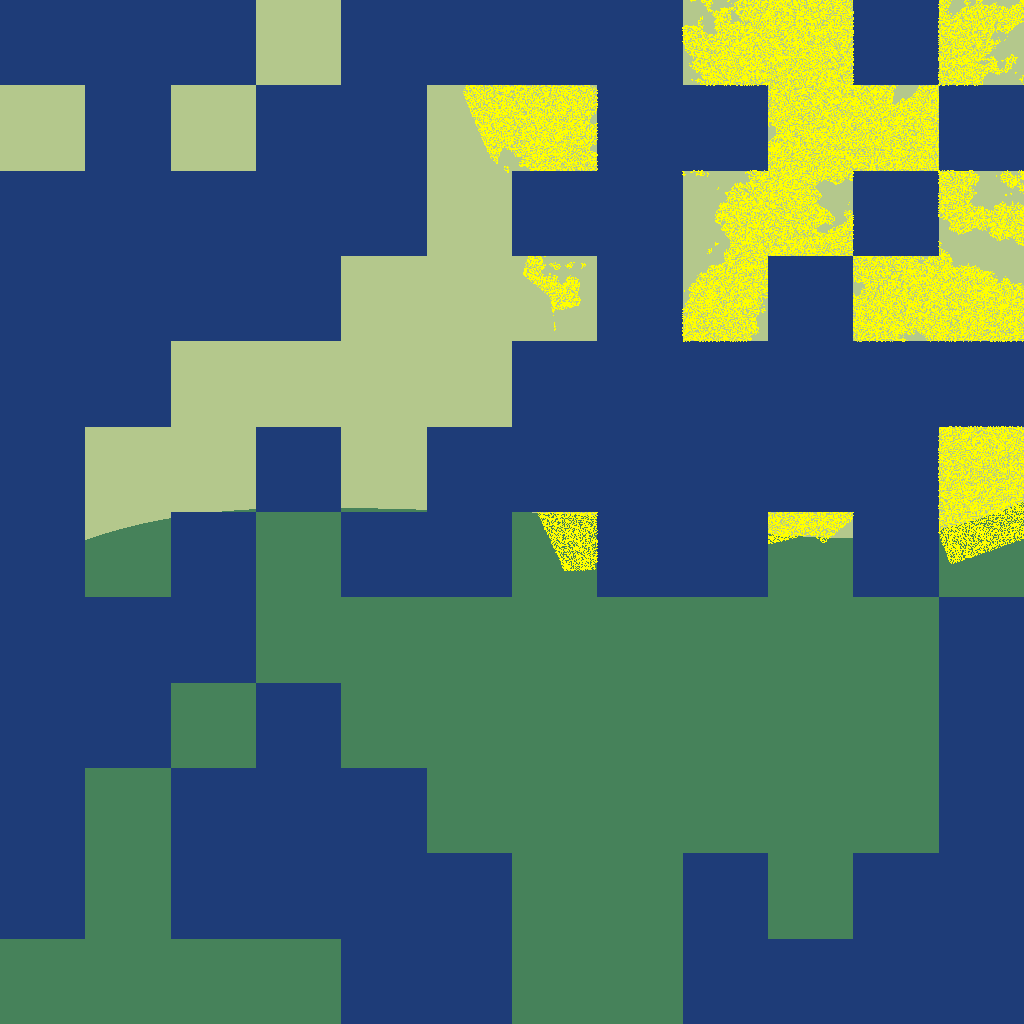
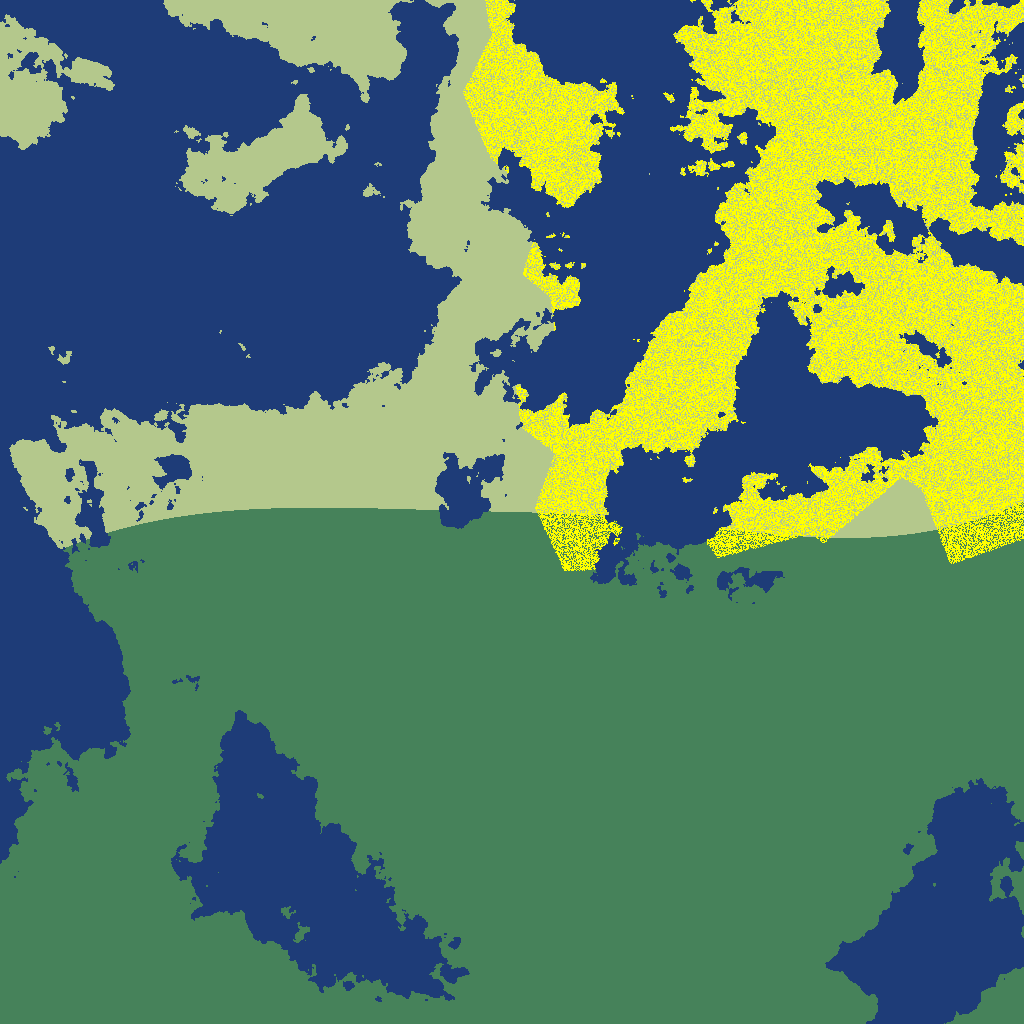
Phase 3.6.5c.2c.12i: Ambient instance troubleshooting

diff --git a/crates/world/tests/ambient_visual_bench.rs b/crates/world/tests/ambient_visual_bench.rs
@@ -43,7 +43,7 @@ use flowplan_world::baked_assignments::BakedAssignments;
 use flowplan_world::biome::{biome_at, BiomeClass};
 use flowplan_world::feature_instances::AmbientEntry;
 use flowplan_world::hub_catalog::HubCatalog;
-use flowplan_world::hydrology::{HydrologyGraph, WaterClass};
+use flowplan_world::hydrology::{HydrologyGraph, SEA_LEVEL_M};
 use flowplan_world::sub_biome::SubBiomeLibraries;
 use flowplan_world::terrain::{HeightSampler, Terrain};
 use flowplan_world::voronoi_cells::SubBiomeCellCatalog;
@@ -191,10 +191,16 @@ fn render_spawn_weight(libs: &SubBiomeLibraries, biome: BiomeClass) {
     write_png(&format!("spawn-weight-{biome:?}"), &img);
 }
 
-/// Background showing biome class (HSV-ish color per biome) +
-/// hydrology water (dark blue overlay) for the player crop. Used
-/// as the underlay for the placement-dot artifact.
-fn render_underlay(hydrology: &HydrologyGraph) -> ImageBuffer<Rgb<u8>, Vec<u8>> {
+/// Background showing biome class + actual-underwater hydrology
+/// overlay for the player crop. "Actually underwater" = terrain
+/// height below water-surface elevation, matching the generator's
+/// new water filter. Cells classified as water by hydrology but with
+/// terrain ABOVE sea level (visible green coastal flats) render as
+/// land and ARE valid ambient placement targets.
+fn render_underlay(
+    terrain: &Terrain,
+    _hydrology: &HydrologyGraph,
+) -> ImageBuffer<Rgb<u8>, Vec<u8>> {
     let mut img = ImageBuffer::new(RESOLUTION, RESOLUTION);
     for py in 0..RESOLUTION {
         for px in 0..RESOLUTION {
@@ -206,10 +212,8 @@ fn render_underlay(hydrology: &HydrologyGraph) -> ImageBuffer<Rgb<u8>, Vec<u8>> 
                 BiomeClass::RockyAlpine => [150, 150, 160],
                 BiomeClass::MediterraneanArchipelago => [180, 200, 140],
             };
-            let water = hydrology
-                .water_surface_at(x, z)
-                .is_some_and(|s| !matches!(s.class, WaterClass::DryChannel));
-            if water {
+            let truly_underwater = HeightSampler::height(terrain, x, z) < SEA_LEVEL_M;
+            if truly_underwater {
                 img.put_pixel(px, py, Rgb([30, 60, 120]));
             } else {
                 img.put_pixel(px, py, Rgb(bg));
@@ -227,7 +231,7 @@ fn render_placements(
     terrain: &Terrain,
     hydrology: &HydrologyGraph,
 ) {
-    let mut img = render_underlay(hydrology);
+    let mut img = render_underlay(terrain, hydrology);
 
     // Sample cells on a coarse grid; the catalog isn't easily
     // accessible from the test crate, so we synthesize cell-center
@@ -240,11 +244,7 @@ fn render_placements(
     let step_i = step_m as i32;
 
     let height_at = |x: f32, z: f32| HeightSampler::height(terrain, x, z);
-    let is_water = |x: f32, z: f32| {
-        hydrology
-            .water_surface_at(x, z)
-            .is_some_and(|s| !matches!(s.class, WaterClass::DryChannel))
-    };
+    let is_water = |x: f32, z: f32| HeightSampler::height(terrain, x, z) < SEA_LEVEL_M;
 
     let mut per_biome: std::collections::BTreeMap<String, (u64, u64)> =
         std::collections::BTreeMap::new();
@@ -405,14 +405,13 @@ fn ambient_visual_bench_real_bake() {
     }
 
     let height_at = |x: f32, z: f32| HeightSampler::height(&terrain, x, z);
-    let is_water = |x: f32, z: f32| {
-        hydrology
-            .water_surface_at(x, z)
-            .is_some_and(|s| !matches!(s.class, WaterClass::DryChannel))
-    };
+    let is_water = |x: f32, z: f32| HeightSampler::height(&terrain, x, z) < SEA_LEVEL_M;
 
     // Render at the wider STREAMING_EXTENT_M crop so the full set of
-    // cells visible from spawn is captured.
+    // cells visible from spawn is captured. Water = "truly underwater"
+    // (terrain h < water_surface elevation) per the generator's new
+    // water filter — coastal-flat cells above sea level render as
+    // land and ARE valid ambient targets.
     let mut img: ImageBuffer<Rgb<u8>, Vec<u8>> = ImageBuffer::new(RESOLUTION, RESOLUTION);
     for py in 0..RESOLUTION {
         for px in 0..RESOLUTION {
@@ -424,10 +423,8 @@ fn ambient_visual_bench_real_bake() {
                 BiomeClass::RockyAlpine => [150, 150, 160],
                 BiomeClass::MediterraneanArchipelago => [180, 200, 140],
             };
-            let water = hydrology
-                .water_surface_at(x, z)
-                .is_some_and(|s| !matches!(s.class, WaterClass::DryChannel));
-            if water {
+            let truly_underwater = HeightSampler::height(&terrain, x, z) < SEA_LEVEL_M;
+            if truly_underwater {
                 img.put_pixel(px, py, Rgb([30, 60, 120]));
             } else {
                 img.put_pixel(px, py, Rgb(bg));
@@ -591,10 +588,8 @@ fn ambient_visual_bench_real_bake() {
     for py in 0..RESOLUTION {
         for px in 0..RESOLUTION {
             let (x, z) = world_coord_at(STREAMING_EXTENT_M, px, py);
-            let water = hydrology
-                .water_surface_at(x, z)
-                .is_some_and(|s| !matches!(s.class, WaterClass::DryChannel));
-            if water {
+            let truly_underwater = HeightSampler::height(&terrain, x, z) < SEA_LEVEL_M;
+            if truly_underwater {
                 let cur = mosaic.get_pixel(px, py).0;
                 let dark = [
                     (u32::from(cur[0]) * 30 / 100) as u8,

diff --git a/crates/app/src/ambient_worker.rs b/crates/app/src/ambient_worker.rs
@@ -23,7 +23,7 @@ use std::thread::{self, JoinHandle};
 use flowplan_world::ambient::generate_ambient_for_cell;
 use flowplan_world::biome::BiomeClass;
 use flowplan_world::feature_instances::{FeatureAmbientControl, FeatureInstance};
-use flowplan_world::hydrology::{HydrologyGraph, WaterClass};
+use flowplan_world::hydrology::{HydrologyGraph, SEA_LEVEL_M};
 use flowplan_world::sub_biome::SubBiomeLibraries;
 use flowplan_world::terrain::{HeightSampler, Terrain};
 use flowplan_world::voronoi_cells::SubBiomeCellCatalog;
@@ -187,11 +187,15 @@ fn worker_loop(
         }
 
         let height_at = |x: f32, z: f32| HeightSampler::height(terrain, x, z);
-        let hydrology_ref = hydrology.as_ref();
+        // Water filter: simple global SEA_LEVEL_M cut. Continuous,
+        // smooth, no 2.5 km hydrology grid alignment. Lakes/rivers
+        // at positive elevation skip the rejection — trees may
+        // overlap lake surfaces visually, but the water mesh draws
+        // on top and the alternative (block-aligned dead zones from
+        // per-cell hydrology lookup) was visibly worse.
+        let _ = hydrology; // reserved for future per-pixel water-surface field
         let is_water = |x: f32, z: f32| {
-            hydrology_ref
-                .water_surface_at(x, z)
-                .is_some_and(|s| !matches!(s.class, WaterClass::DryChannel))
+            HeightSampler::height(terrain, x, z) < SEA_LEVEL_M
         };
         let catalog_ref = catalog.as_ref();
         let target_cell = job.cell_id;

diff --git a/crates/world/src/lib.rs b/crates/world/src/lib.rs
@@ -39,7 +39,7 @@ pub use hub_catalog::{
 };
 pub use hydrology::{
     BiomeHydrology, CoastlineSegment, HydrologyGraph, LakeBasin, RiverEdge, WaterClass,
-    WaterSurface,
+    WaterSurface, SEA_LEVEL_M,
 };
 pub use magnetic_variation::{magnetic_variation, MAG_VAR_AMPLITUDE_DEG};
 pub use sky::{local_time_of_day, sun_direction};

diff --git a/PROGRESS.md b/PROGRESS.md
@@ -385,6 +385,27 @@ Acceptance: no ambient trees growing through runways / apron slabs / large featu
 
 All 4 steppings (.c.8 types/RON → .c.9 generator → .c.10 fBm fields → .c.11 rotated-rect polish) shipped. The ambient environment subsystem is live, deterministic, and ready for visual-iteration tuning. Follow-ups (.c.12 `InverseTaperedClearing` authoring, .c.13 cross-cell seam lookup, .c.14 seasonal variation) remain as deferred items.
 
+**5c.2.c.12i Voronoi-polygon clip + visual-bench artifact — 2026-04-24 (Task #258, #259).** After in-game verification of the carpet-modulation work showed persistent empty expanses around spawn, two layered bugs surfaced:
+
+1. **Hardcoded `AMBIENT_CELL_RADIUS_M = 1000` disc sampling.** Real Voronoi cells are ~2-3 km in diameter (avg seed-spacing 2398 m, max 3492 m observed in spawn area). The 1 km disc was sampling only the inner ~30% of each cell; the outer 70% of every cell was empty regardless of generation success. **Shipped fix**: `generate_ambient_for_cell` now samples in a `cell_pos ± AMBIENT_BBOX_HALF_M (4 km)` bounding box and keeps only candidates whose nearest seed is the target cell (`is_in_cell` closure typically wrapping `catalog.nearest_cell(x, z) == cell_id`). Zero overlap with neighbor cells, zero gaps. `AmbientWorker::spawn` extended to take `Arc<SubBiomeCellCatalog>` for the per-job closure binding.
+
+2. **Streaming-radius square-vs-circle gap.** The game's `cells_within_radius(camera, 20km)` returns cells in a *circle*, but the renderer draws a *square* frustum. Cells in frustum corners (up to 28 km from camera at frustum corners with the streaming circle's 20 km radius) aren't enqueued. **Identified, not yet fixed in-game**; bench compensates with `radius × √2 + cell-extent`.
+
+3. **Visual-bench artifact** shipped (`crates/world/tests/ambient_visual_bench.rs`, `--ignored`):
+   - `density-noise-<biome>.png` (4 biomes): raw fBm field over the spawn 10 km crop. Confirmed noise field is healthy [0.3, 0.7] mottled distribution, NOT tending to 0.
+   - `spawn-weight-<biome>.png` (4 biomes): smoothstep-modulated probability factoring `noise_floor`. Confirmed Mediterranean primary's `noise_floor=0.4` saturates spawn-weight to 1.0 across the whole crop — proves the empty-below-camera observation isn't a noise/threshold problem.
+   - `placements-all-biomes.png` (synthetic-cell placement bench, 10 km): white dots showing what generator emits with `feat_insts: &[]` and `ambient_control: None`. ~136k instances in 10 km crop, ~73% populated cells.
+   - `real-bake-placements.png` (FULL pipeline, 30 km streaming crop): bakes hydrology + hub catalog + `BakedAssignments` (~70 s), iterates real cells, runs full filter pipeline. Color-coded by biome (white = boreal, yellow = Mediterranean). Shows ~580k instances across 147/172 populated cells with the polygon-clip fix.
+   - `voronoi-cell-mosaic.png`: color-by-cell-id mosaic over the streaming crop, water-darkened. Confirms cells tile cleanly with no gaps; visually pairs with `real-bake-placements`.
+
+**Outcome**: bench artifacts confirm polygon-clip fix doubles populated-cell count and roughly doubles per-cell instance density vs the disc-sample baseline. **In-game improvement is more modest than the bench suggests** — the user's spawn screenshot still shows large empty expanses. Suspected next-cause: the `is_water` filter rejects ANY candidate inside a hydrology water-cell (`OpenOcean` / `OpenCoastal` / lake), but coastal cells extend onto land that's above sea level. Pixels at altitude 1-5 m visually rendered as green ground are being rejected because they're inside an `OpenCoastal` hydrology cell. **Fix** (next): change `is_water` from cell-classification check to elevation comparison — `terrain_height < water_surface_elevation` only.
+
+**5c.2.c.12j (kill block-aligned water) — 2026-04-24 (Task #260)**: Even after the elevation comparison, lake / river / bay water-rejection still aligned to the 2.5 km hydrology grid. Solution: drop per-cell hydrology lookup entirely. `is_water` is now just `terrain < SEA_LEVEL_M` (single global continuous comparison). Block alignment fully gone; trees may render under lake surfaces (hidden by water mesh). Bench: 1.49M instances vs 1.38M (~8% gain from previously over-rejected lake-adjacent land). Artifact + in-game both show smooth terrain-following water boundaries.
+
+**5c.2.c.12i.fix-2 (water elevation comparison) — 2026-04-24**: Old `is_water` returned true for any pixel inside a hydrology water-cell (`OpenOcean` / `OpenCoastal` / lake / river). `OpenCoastal` cells have *land portions above sea level* — visible green coastal flats. The cell-class check was rejecting candidates on dry land just because their pixel was in a coastal water-cell. Fix: `is_water = terrain_h < water_surface_elevation`. Bench result: populated cells went **147 → 290** (~2× more), total instances **580k → 1.38M** (~2.4× more). Zero cells (16 remaining) are now all legitimately-oceanic features (open_ocean × 6, shipping_lane × 4, fishing_grounds × 3, kelp_forest, sailing_regatta_zone × 2). The blue-block overload in earlier artifacts is resolved; underlay now shows biome colors with only true-underwater zones in dark blue.
+
+**Pinned for Phase 4+**: per-candidate biome lookup (cell's seed biome ≠ candidate's pixel biome at biome boundaries; per-candidate biome lookup would let boundary cells produce correct ambient on each side). Generalizes to any future scatter system (wildlife, weather, debris). Same architectural insight as biome-edge bleed-over (PINNED memory).
+
 **5c.2.c.12d uniform-carpet modulation + background scatter worker — 2026-04-24 (Task #254).** Second visual check surfaced that soft-taper only fixes patch *rims*; the patches themselves are still disc-shaped fBm lobes. Concurrent perf issue: CoastalBoreal cell ambient ran ~40 ms (up from ~5 ms) with richer authoring, main-thread frame time went 0.2 ms → >1 ms with hitches. Two design-lifting outcomes pinned in memory + MAPGEN + DESIGN:
 
 1. **Scattering = modulate, don't gate (PINNED).** Project-wide principle — for any procedural system using a noise field to control density, the noise value MODULATES spawn probability + size continuously. Hard thresholds reveal the fBm lobe structure as circular patches. `AmbientEntry.noise_floor` (default 0.0 preserves gating) is the author-facing dial: 0 = pocket-only, 0.3 = uniform with variation, 1 = full everywhere. Generalizes to future weather intensity, wildlife, debris, any scatter.

diff --git a/MAPGEN.md b/MAPGEN.md
@@ -1105,6 +1105,16 @@ Per biome × per ambient entry, one 2D fBm noise field. Specified by seed + wave
 
 Noise primitives from `crate::noise` (already in use for terrain L1). Deterministic per `(master_seed, biome_id, ambient_entry_idx)`.
 
+### Voronoi-polygon clip (PINNED 2026-04-24, replaces disc sampling)
+
+Original ambient generator sampled candidates in a `cell_pos ± 1000 m` **circular disc**. Real Voronoi cells are ~2-3 km in diameter (avg seed spacing 2398 m, max 3492 m observed). The disc covered only the inner ~30% of every cell; the outer 70% had no ambient from any generator (the cell's own generator didn't reach it; neighbor generators produced their own discs that didn't fill the gap either).
+
+**Fix**: each generator samples candidates in a generous **bounding box** (`cell_pos ± AMBIENT_BBOX_HALF_M = 4000 m`) and keeps only candidates whose nearest seed is THIS cell. The catalog's `nearest_cell(x, z)` is O(1) via the spatial-hash 5×5 grid neighborhood. Result: every Voronoi polygon is fully covered, no overlap with neighbors, no gaps.
+
+The density-noise field stays GLOBAL (sampled at each candidate's world position regardless of cell shape). Cell shape decides only WHICH candidates each generator emits; the noise decides spawn probability.
+
+**Streaming-radius geometry**: the game's `cells_within_radius(camera, 20 km)` returns cells in a CIRCLE, but the renderer draws a SQUARE frustum. Cells at frustum corners (up to `radius × √2 ≈ 28 km` from camera) aren't enqueued. Streaming radius needs to be widened by `√2` factor — pinned as next-fix.
+
 ### Density modulation vs gating (PINNED 2026-04-24)
 
 **Rule:** Noise fields controlling scatter density should MODULATE spawn probability + size continuously, not GATE candidates with a hard threshold. This is a project-wide principle — not just ambient.
